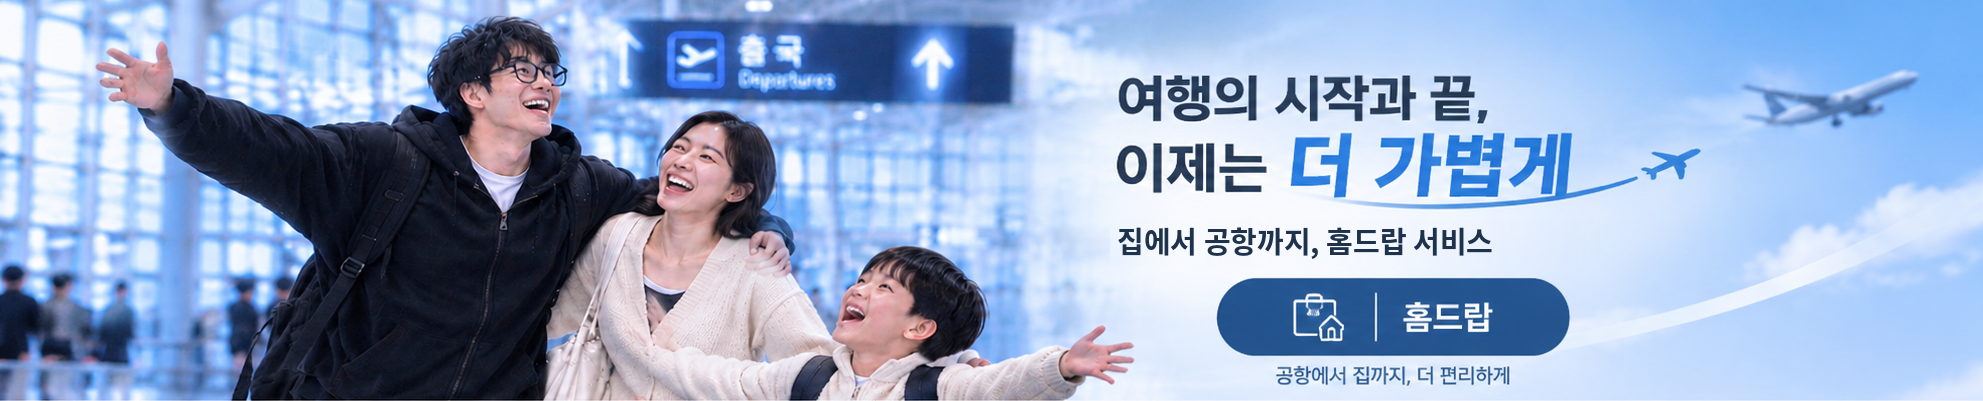
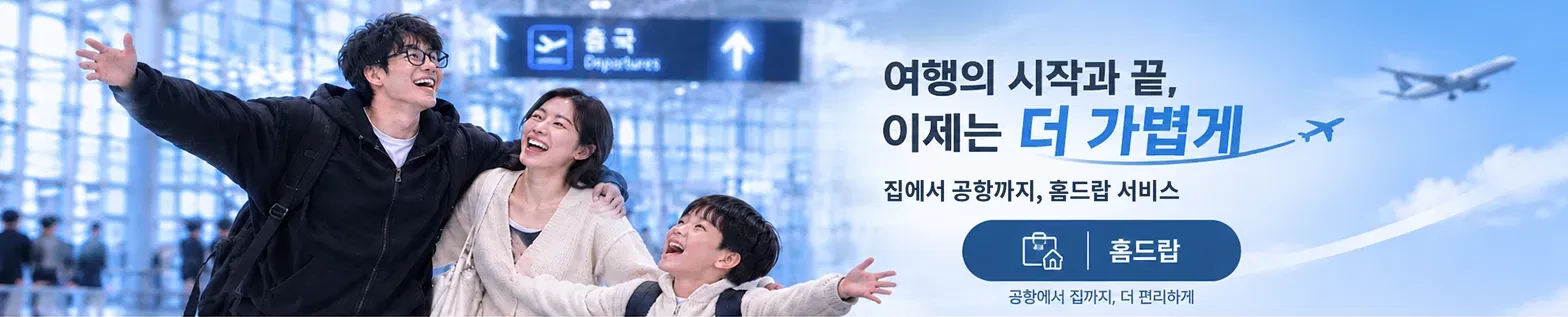
배너 사진 교체와 왼쪽→오른쪽 넘김 모션
- 픽셀을 다듬은 새 배너 사진으로 교체 (위·아래 두 장 PNG)
- 넘어갈 때 새 사진은 왼쪽에서 들어오고 지금 사진은 오른쪽으로 나가게 함 (0.7초)
- 3초마다 계속 넘어가고, 윈도우 애니메이션 효과가 꺼진 PC에서도 모션이 보이게 함

diff --git a/public/banner.js b/public/banner.js
@@ -1,13 +1,20 @@
-// 홍보 배너: public/banner/ 에 banner-1.jpg, banner-2.jpg … 를 넣으면 마우스를 올려도 멈추지 않고 3초마다 옆으로 넘어간다.
-// 사진이 하나도 없으면 배너는 숨겨지고 파란 소개 영역이 그대로 보인다.
+// 홍보 배너: public/banner/ 에 banner-1, banner-2 … (jpg·jpeg·webp·png) 를 넣으면 3초마다 넘어간다.
+// 넘어갈 때 새 사진은 왼쪽에서 들어오고, 지금 사진은 오른쪽으로 밀려 나간다(왼쪽 → 오른쪽).
+// 마우스를 올려도 멈추지 않는다. 사진이 하나도 없으면 배너는 숨겨지고 파란 소개 영역이 그대로 보인다.
 (() => {
   const INTERVAL = 3000;
+  const DURATION = 700; // 넘어가는 데 걸리는 시간(ms)
   const EXT = ['jpg', 'jpeg', 'webp', 'png'];
   const sec = document.getElementById('banner');
   if (!sec) return;
 
   let ratio = null; // 첫 사진의 가로:세로 비율에 배너 높이를 맞춘다 (글자가 잘리지 않게)
-  const probe = src => new Promise(ok => { const i = new Image(); i.onload = () => { if (!ratio) ratio = i.naturalWidth / i.naturalHeight; ok(src); }; i.onerror = () => ok(null); i.src = src; });
+  const probe = src => new Promise(ok => {
+    const i = new Image();
+    i.onload = () => { if (!ratio) ratio = i.naturalWidth / i.naturalHeight; ok(src); };
+    i.onerror = () => ok(null);
+    i.src = src;
+  });
   async function findSlides() {
     const found = [];
     for (let n = 1; n <= 8; n++) {
@@ -19,42 +26,62 @@
     return found;
   }
 
-  findSlides().then(slides => {
-    if (!slides.length) return;
+  findSlides().then(srcs => {
+    if (!srcs.length) return;
     const track = document.getElementById('bTrack'), dots = document.getElementById('bDots');
-    track.innerHTML = slides.map((s, i) => `<a class="slide" href="#chat" role="group" aria-roledescription="slide" aria-label="${i + 1} / ${slides.length}"><img src="${s}" alt="홈드랍 홍보 ${i + 1}" ${i ? 'loading="lazy"' : ''} draggable="false"></a>`).join('');
-    dots.innerHTML = slides.map((_, i) => `<button type="button" role="tab" aria-label="${i + 1}번 배너" data-i="${i}"></button>`).join('');
+    track.innerHTML = srcs.map((s, i) => `<a class="slide" href="#chat" role="group" aria-roledescription="slide" aria-label="${i + 1} / ${srcs.length}"><img src="${s}" alt="홈드랍 홍보 ${i + 1}" draggable="false"></a>`).join('');
+    dots.innerHTML = srcs.map((_, i) => `<button type="button" role="tab" aria-label="${i + 1}번 배너" data-i="${i}"></button>`).join('');
     if (ratio) sec.style.setProperty('--ratio', ratio.toFixed(4));
     sec.hidden = false;
     document.getElementById('hero').hidden = true;
 
-    let cur = 0, timer = null;
-    const reduce = matchMedia('(prefers-reduced-motion: reduce)').matches;
-    const go = i => {
-      cur = (i + slides.length) % slides.length;
-      // %로 옮기면 소수점 픽셀에 걸려 사진(특히 얼굴)이 흐려져서, 정수 픽셀로 옮긴다
-      track.style.transform = `translateX(-${cur * sec.clientWidth}px)`;
-      dots.querySelectorAll('button').forEach((b, k) => b.setAttribute('aria-selected', k === cur ? 'true' : 'false'));
-    };
+    const slides = [...track.querySelectorAll('.slide')];
+    // 윈도우 「애니메이션 효과」가 꺼진 PC 에서도 넘김 모션이 보이도록 항상 움직인다 (요청 사항)
+    const reduce = false;
+    const ease = `transform ${DURATION}ms cubic-bezier(.4, 0, .2, 1)`;
+    let cur = 0, timer = null, busy = false;
+
+    // 처음: 첫 사진만 제자리(0), 나머지는 왼쪽 밖에서 대기
+    slides.forEach((s, i) => { s.style.transition = 'none'; s.style.transform = i ? 'translateX(-100%)' : 'translateX(0)'; s.setAttribute('aria-hidden', i ? 'true' : 'false'); });
+    const mark = () => dots.querySelectorAll('button').forEach((b, k) => b.setAttribute('aria-selected', k === cur ? 'true' : 'false'));
+    mark();
+
+    // dir = +1 : 왼쪽 → 오른쪽 (새 사진이 왼쪽에서 들어옴), -1 : 반대
+    function go(next, dir = 1) {
+      next = (next + slides.length) % slides.length;
+      if (next === cur || busy) return;
+      busy = true;
+      const a = slides[cur], b = slides[next];
+      b.style.transition = 'none';
+      b.style.transform = `translateX(${-dir * 100}%)`;
+      b.offsetWidth; // 시작 위치를 먼저 그리게 한다
+      a.style.transition = ease; b.style.transition = ease;
+      a.style.transform = `translateX(${dir * 100}%)`;
+      b.style.transform = 'translateX(0)';
+      a.setAttribute('aria-hidden', 'true'); b.setAttribute('aria-hidden', 'false');
+      cur = next; mark();
+      setTimeout(() => { busy = false; }, reduce ? 0 : DURATION);
+    }
+
     const stop = () => { clearInterval(timer); timer = null; };
-    // 「움직임 줄이기」 설정이 켜져 있으면 미끄러지는 효과만 끄고, 3초마다 바뀌는 것은 그대로 둔다
-    if (reduce) track.style.transition = 'none';
-    // 항상 3초마다 넘긴다. 화살표·점을 누르면 그 사진에서 3초를 다시 센다. 탭이 숨겨졌을 때만 쉰다.
-    const start = () => { stop(); if (slides.length > 1 && !document.hidden) timer = setInterval(() => go(cur + 1), INTERVAL); };
+    // 항상 3초마다 넘긴다. 화살표·점을 누르면 그 사진에서 3초를 다시 센다. 브라우저 탭이 숨겨졌을 때만 쉰다.
+    const start = () => { stop(); if (slides.length > 1 && !document.hidden) timer = setInterval(() => go(cur + 1, 1), INTERVAL); };
 
-    document.getElementById('bPrev').onclick = () => { go(cur - 1); start(); };
-    document.getElementById('bNext').onclick = () => { go(cur + 1); start(); };
-    dots.onclick = e => { const b = e.target.closest('button'); if (b) { go(Number(b.dataset.i)); start(); } };
+    document.getElementById('bNext').onclick = () => { go(cur + 1, 1); start(); };
+    document.getElementById('bPrev').onclick = () => { go(cur - 1, -1); start(); };
+    dots.onclick = e => { const b = e.target.closest('button'); if (b) { const i = Number(b.dataset.i); go(i, i > cur ? 1 : -1); start(); } };
     document.addEventListener('visibilitychange', start);
-    addEventListener('resize', () => { const t = track.style.transition; track.style.transition = 'none'; go(cur); track.offsetWidth; track.style.transition = t; });
 
-    // 손가락으로 밀어서 넘기기
+    // 손가락으로 밀기: 오른쪽으로 밀면 다음(왼쪽 → 오른쪽), 왼쪽으로 밀면 이전
     let x0 = null;
     sec.addEventListener('pointerdown', e => { x0 = e.clientX; });
-    sec.addEventListener('pointerup', e => { if (x0 != null && Math.abs(e.clientX - x0) > 50) { go(cur + (e.clientX < x0 ? 1 : -1)); start(); } x0 = null; });
+    sec.addEventListener('pointerup', e => {
+      if (x0 != null && Math.abs(e.clientX - x0) > 50) { e.clientX > x0 ? go(cur + 1, 1) : go(cur - 1, -1); start(); }
+      x0 = null;
+    });
     sec.addEventListener('click', e => { if (e.target.closest('.b-arrow, .b-dots')) e.preventDefault(); });
 
     if (slides.length < 2) sec.classList.add('single');
-    go(0); start();
+    start();
   });
 })();

diff --git a/public/style.css b/public/style.css
@@ -51,8 +51,9 @@ a { color: inherit; }
 .sr-only { position: absolute; width: 1px; height: 1px; margin: -1px; padding: 0; overflow: hidden; clip: rect(0 0 0 0); white-space: nowrap; border: 0; }
 .banner { position: relative; overflow: hidden; background: #0b2a55; touch-action: pan-y; }
 .banner[hidden] { display: none; }
-.banner-track { display: flex; transition: transform .6s cubic-bezier(.4, 0, .2, 1); }
-.slide { flex: 0 0 100%; display: block; aspect-ratio: var(--ratio, 8 / 3); max-height: 620px; }
+/* 사진을 겹쳐 두고, 넘어갈 때 새 사진이 왼쪽에서 들어오고 지금 사진은 오른쪽으로 나간다 */
+.banner-track { position: relative; overflow: hidden; aspect-ratio: var(--ratio, 8 / 3); max-height: 620px; }
+.slide { position: absolute; inset: 0; display: block; will-change: transform; }
 .slide img { width: 100%; height: 100%; object-fit: cover; object-position: center top; display: block; user-select: none; }
 .b-arrow { position: absolute; top: 50%; transform: translateY(-50%); width: 56px; height: 56px; border-radius: 50%; border: 0; background: #004AC4; color: #fff; display: grid; place-items: center; opacity: .92; }
 .b-arrow:hover { background: var(--cta); opacity: 1; }
